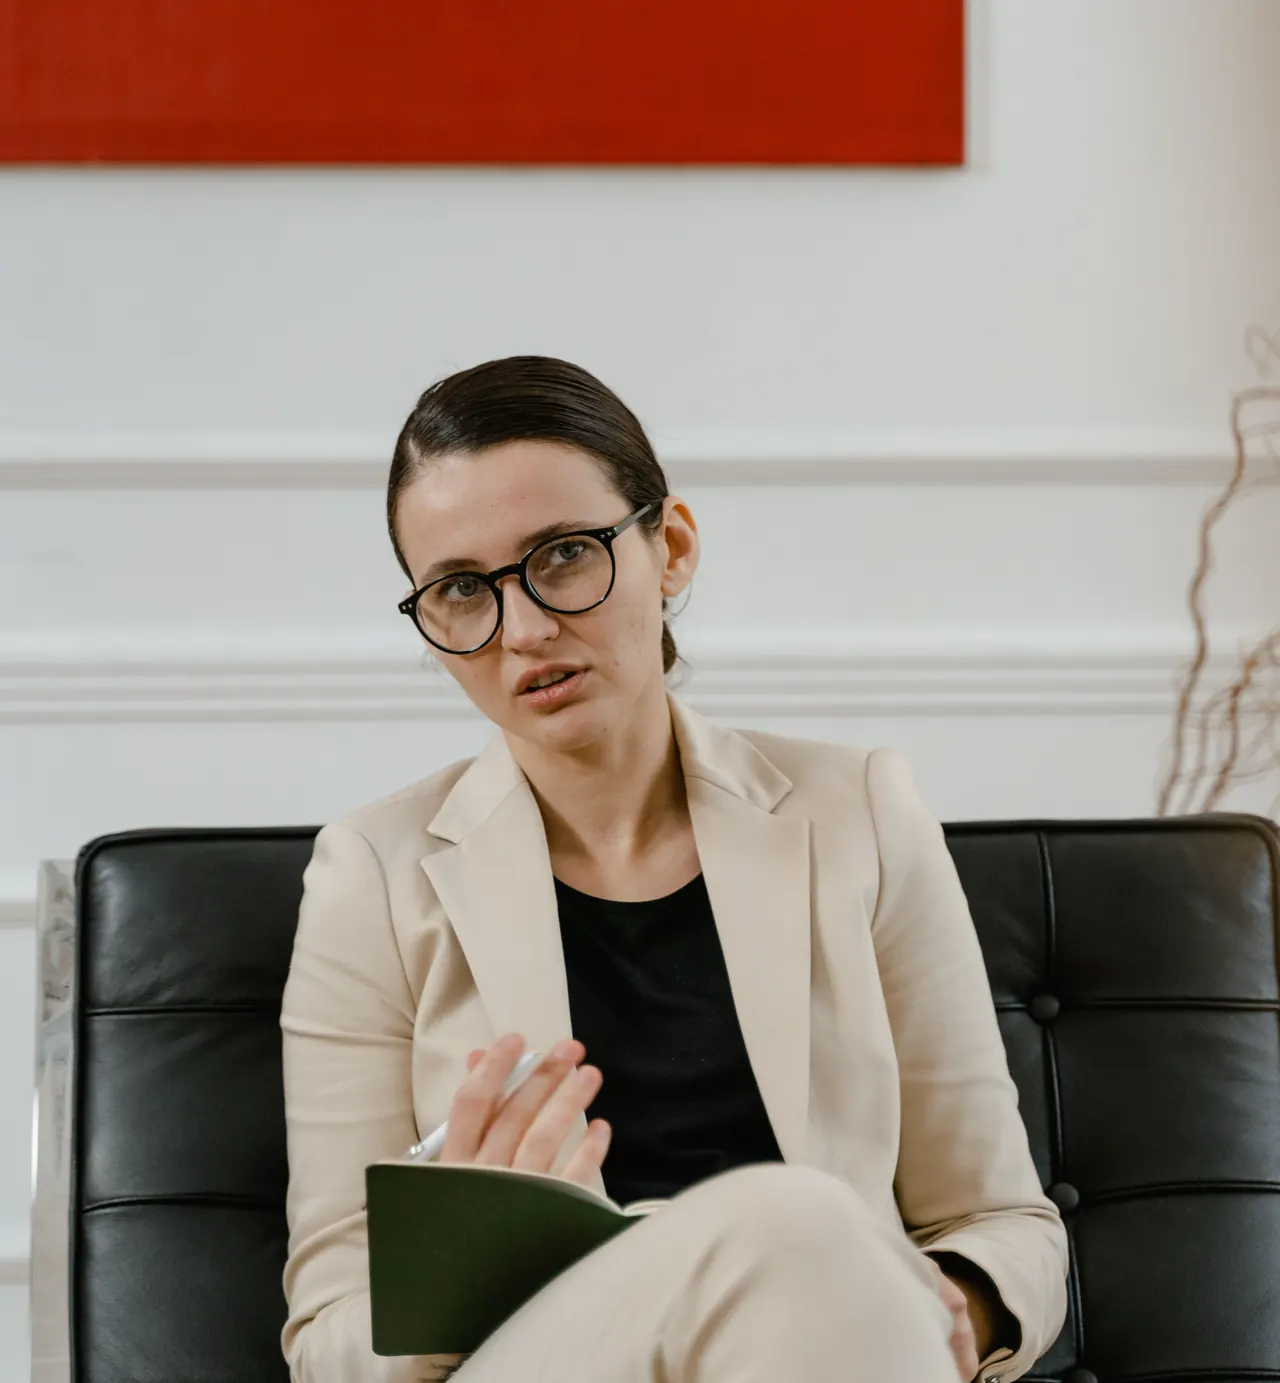
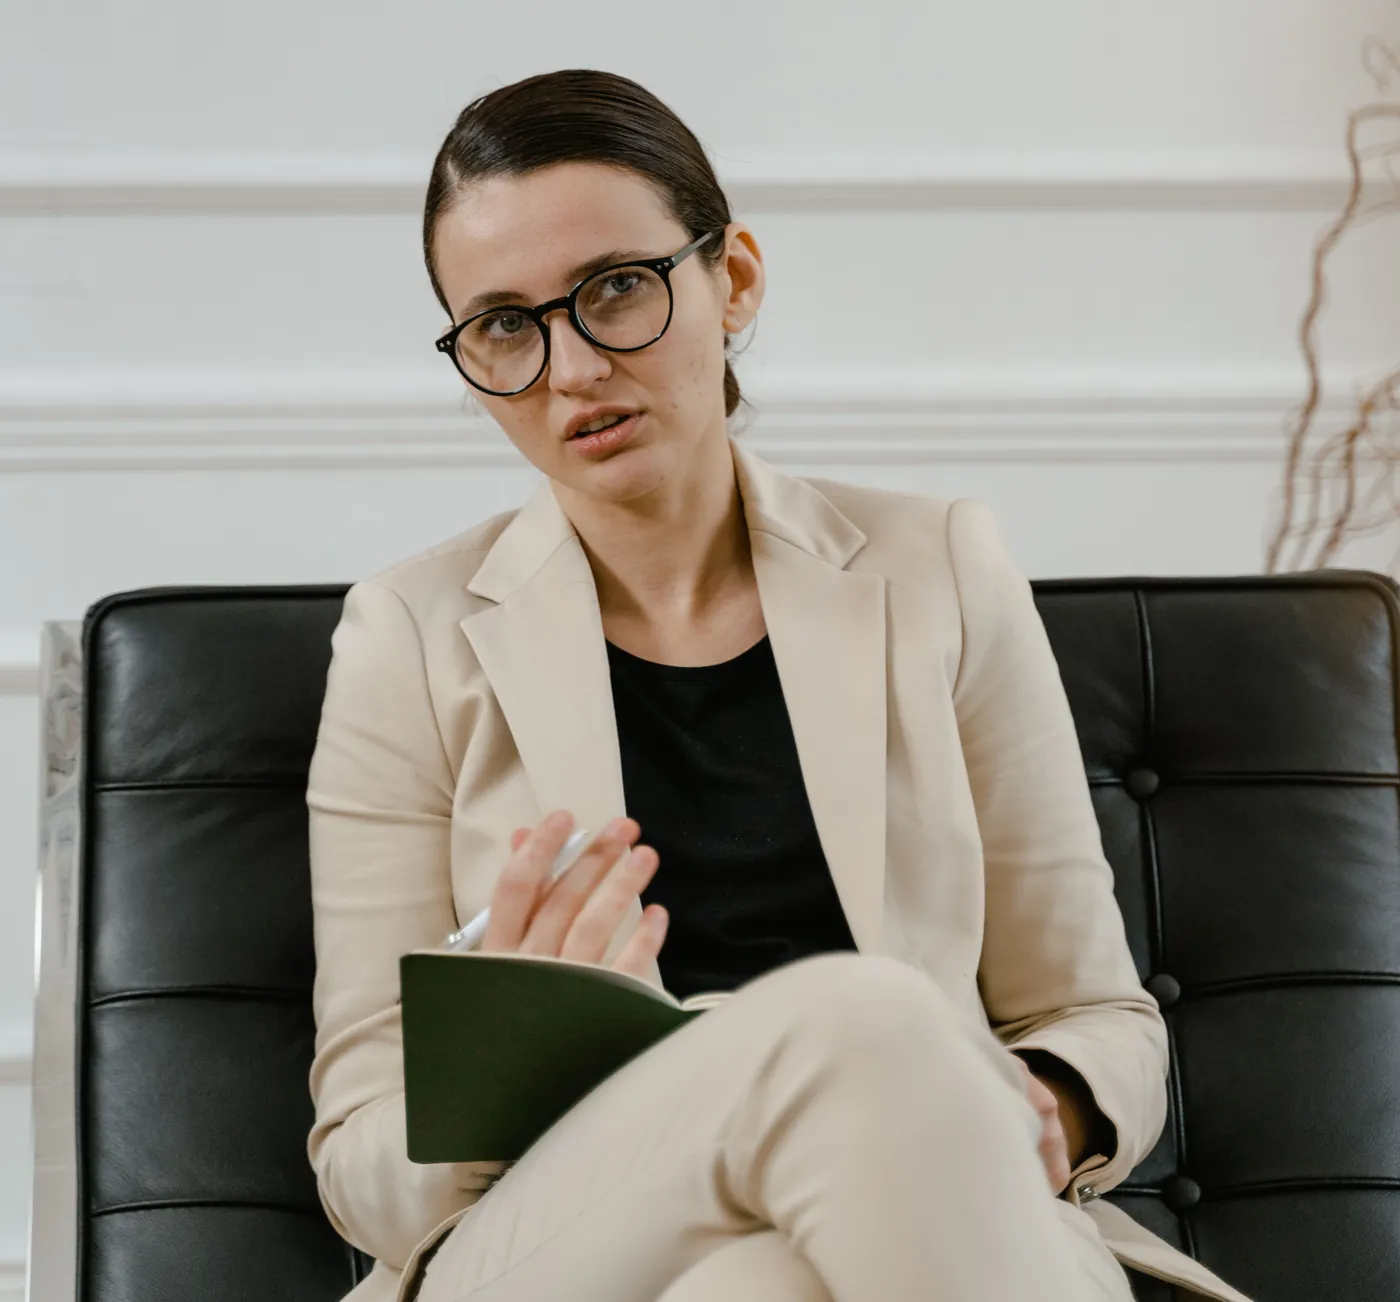
Crop hero photo for flagship-experts

diff --git a/src/data/demo-psycholog.ts b/src/data/demo-psycholog.ts
@@ -27,8 +27,10 @@ export const hero = {
 	image: {
 		src: "/images/demo-psycholog/hero.webp",
 		alt: "Психолог з блокнотом під час розмови (демо)",
-		position: "50% 36%",
-		positionDesktop: "50% 30%",
+		position: "50% 32%",
+		positionDesktop: "50% 32%",
+		aspect: "4 / 5",
+		aspectDesktop: "1 / 1",
 	},
 };
 
